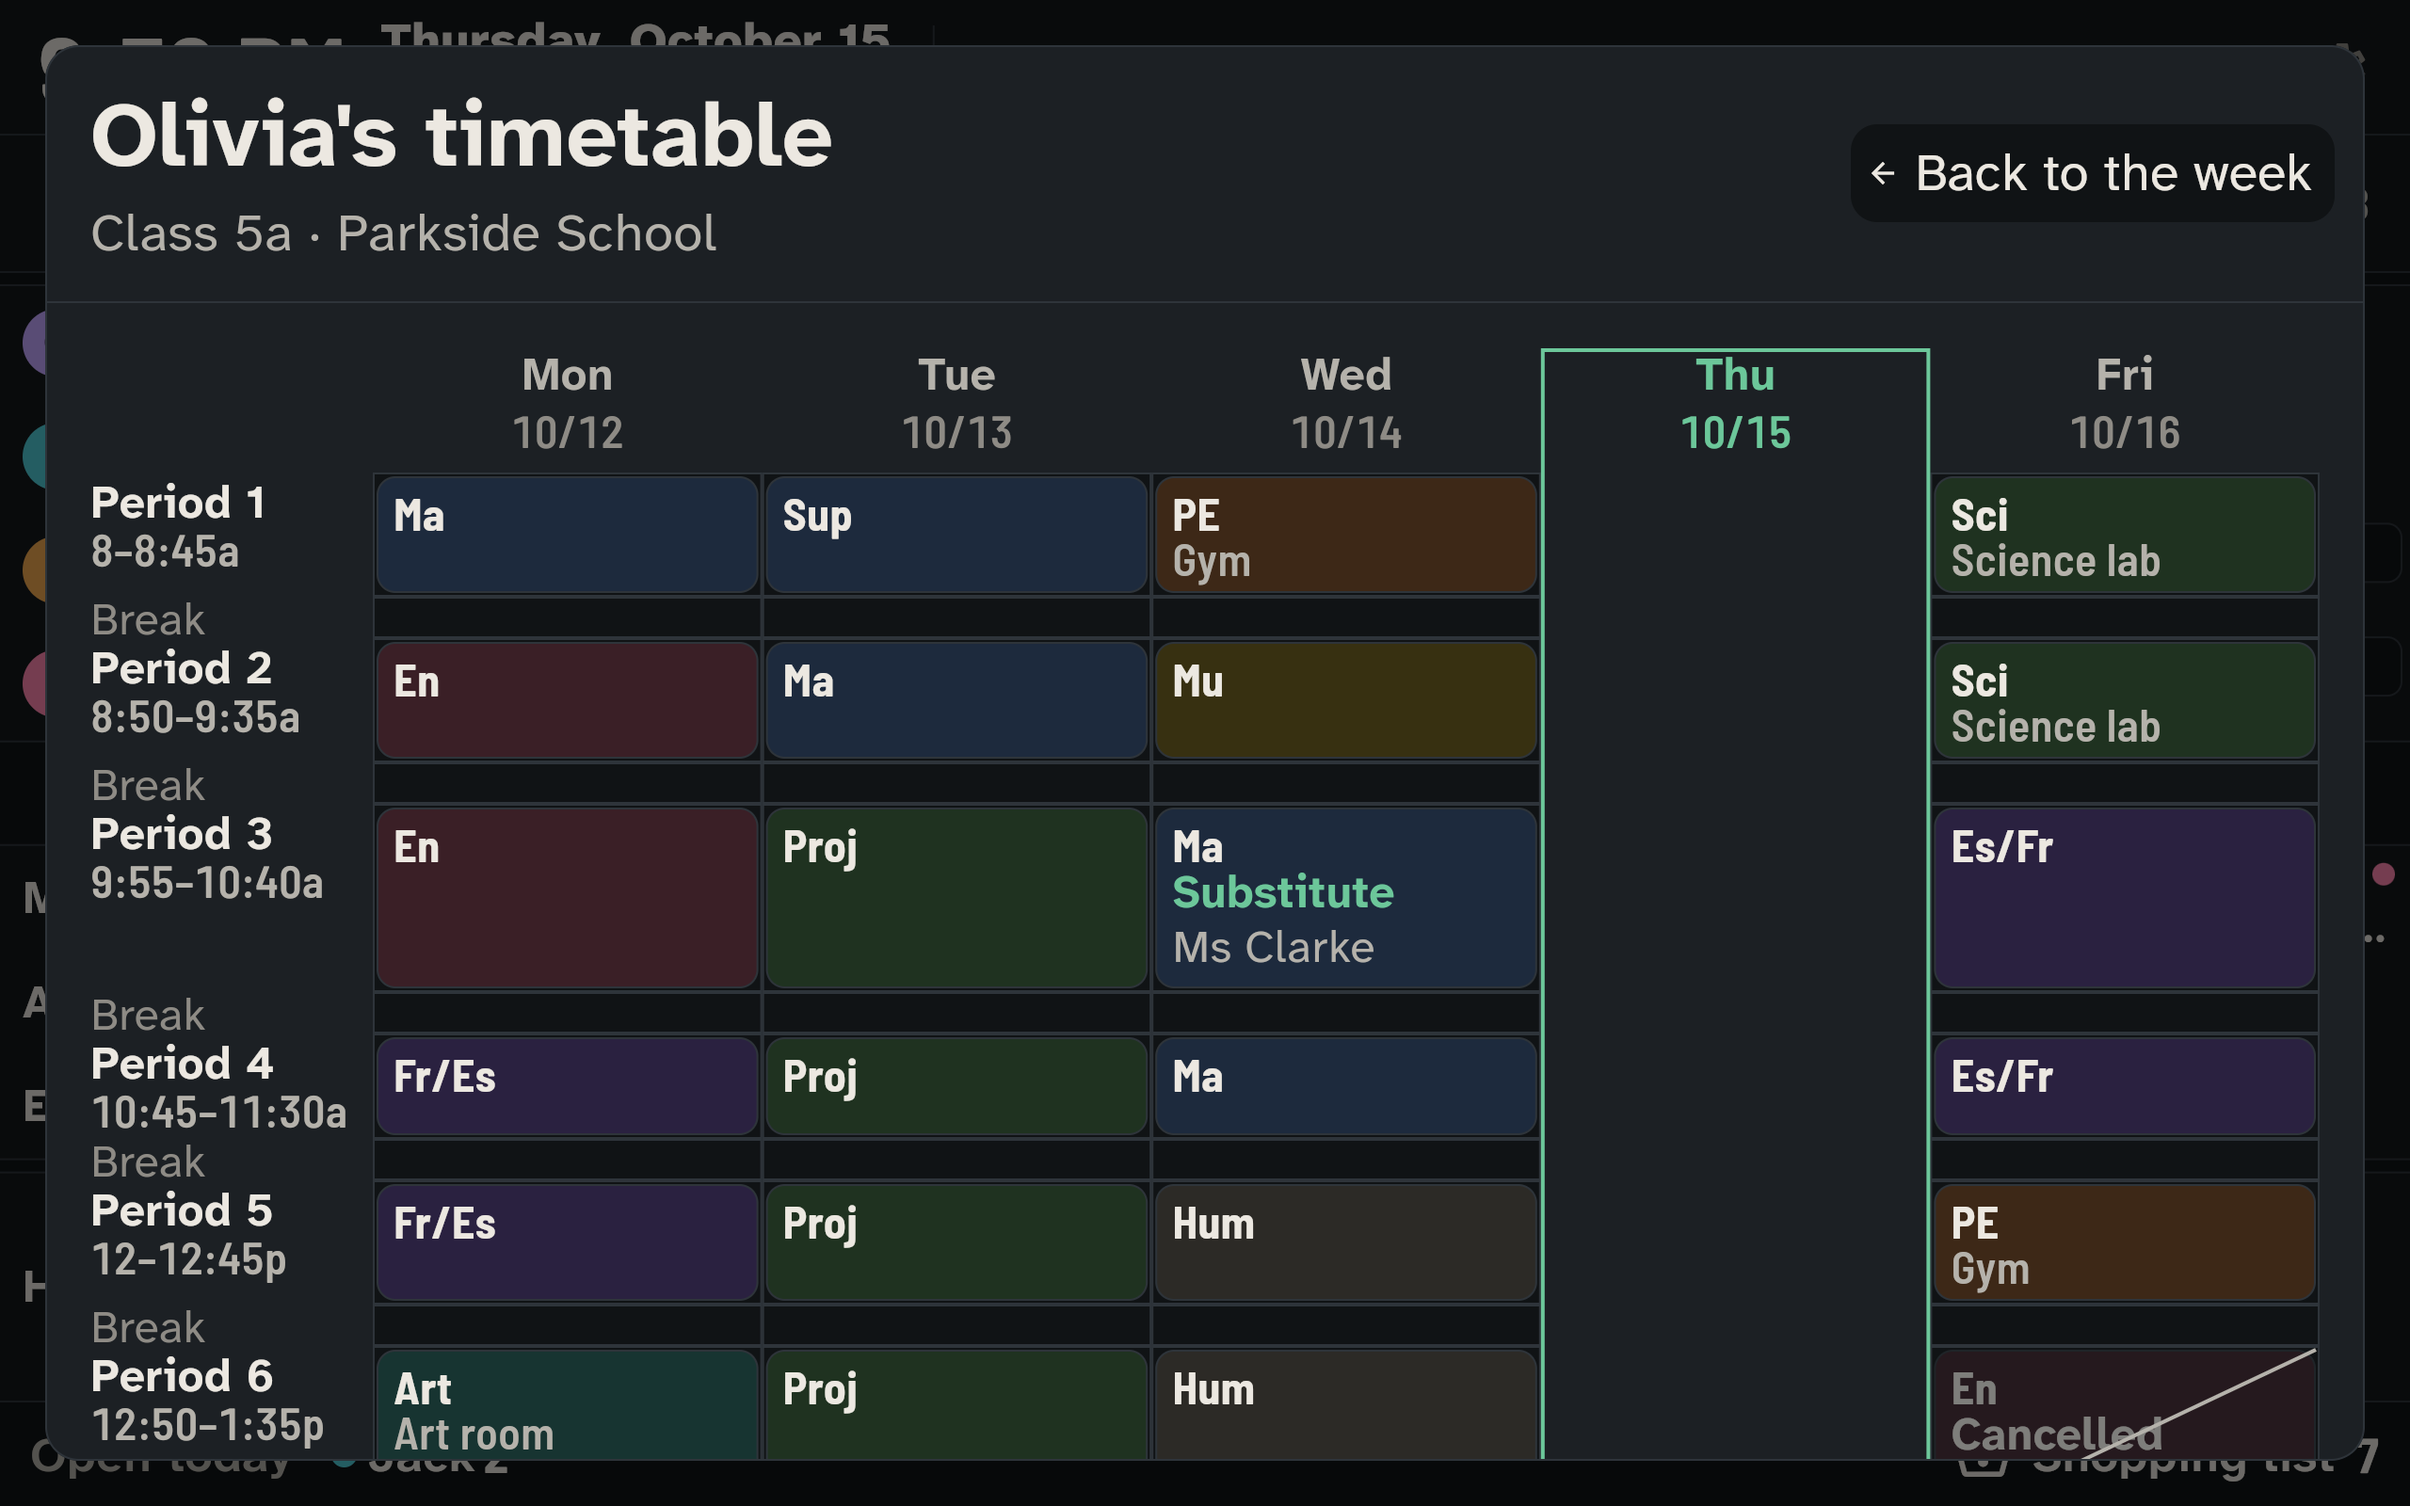
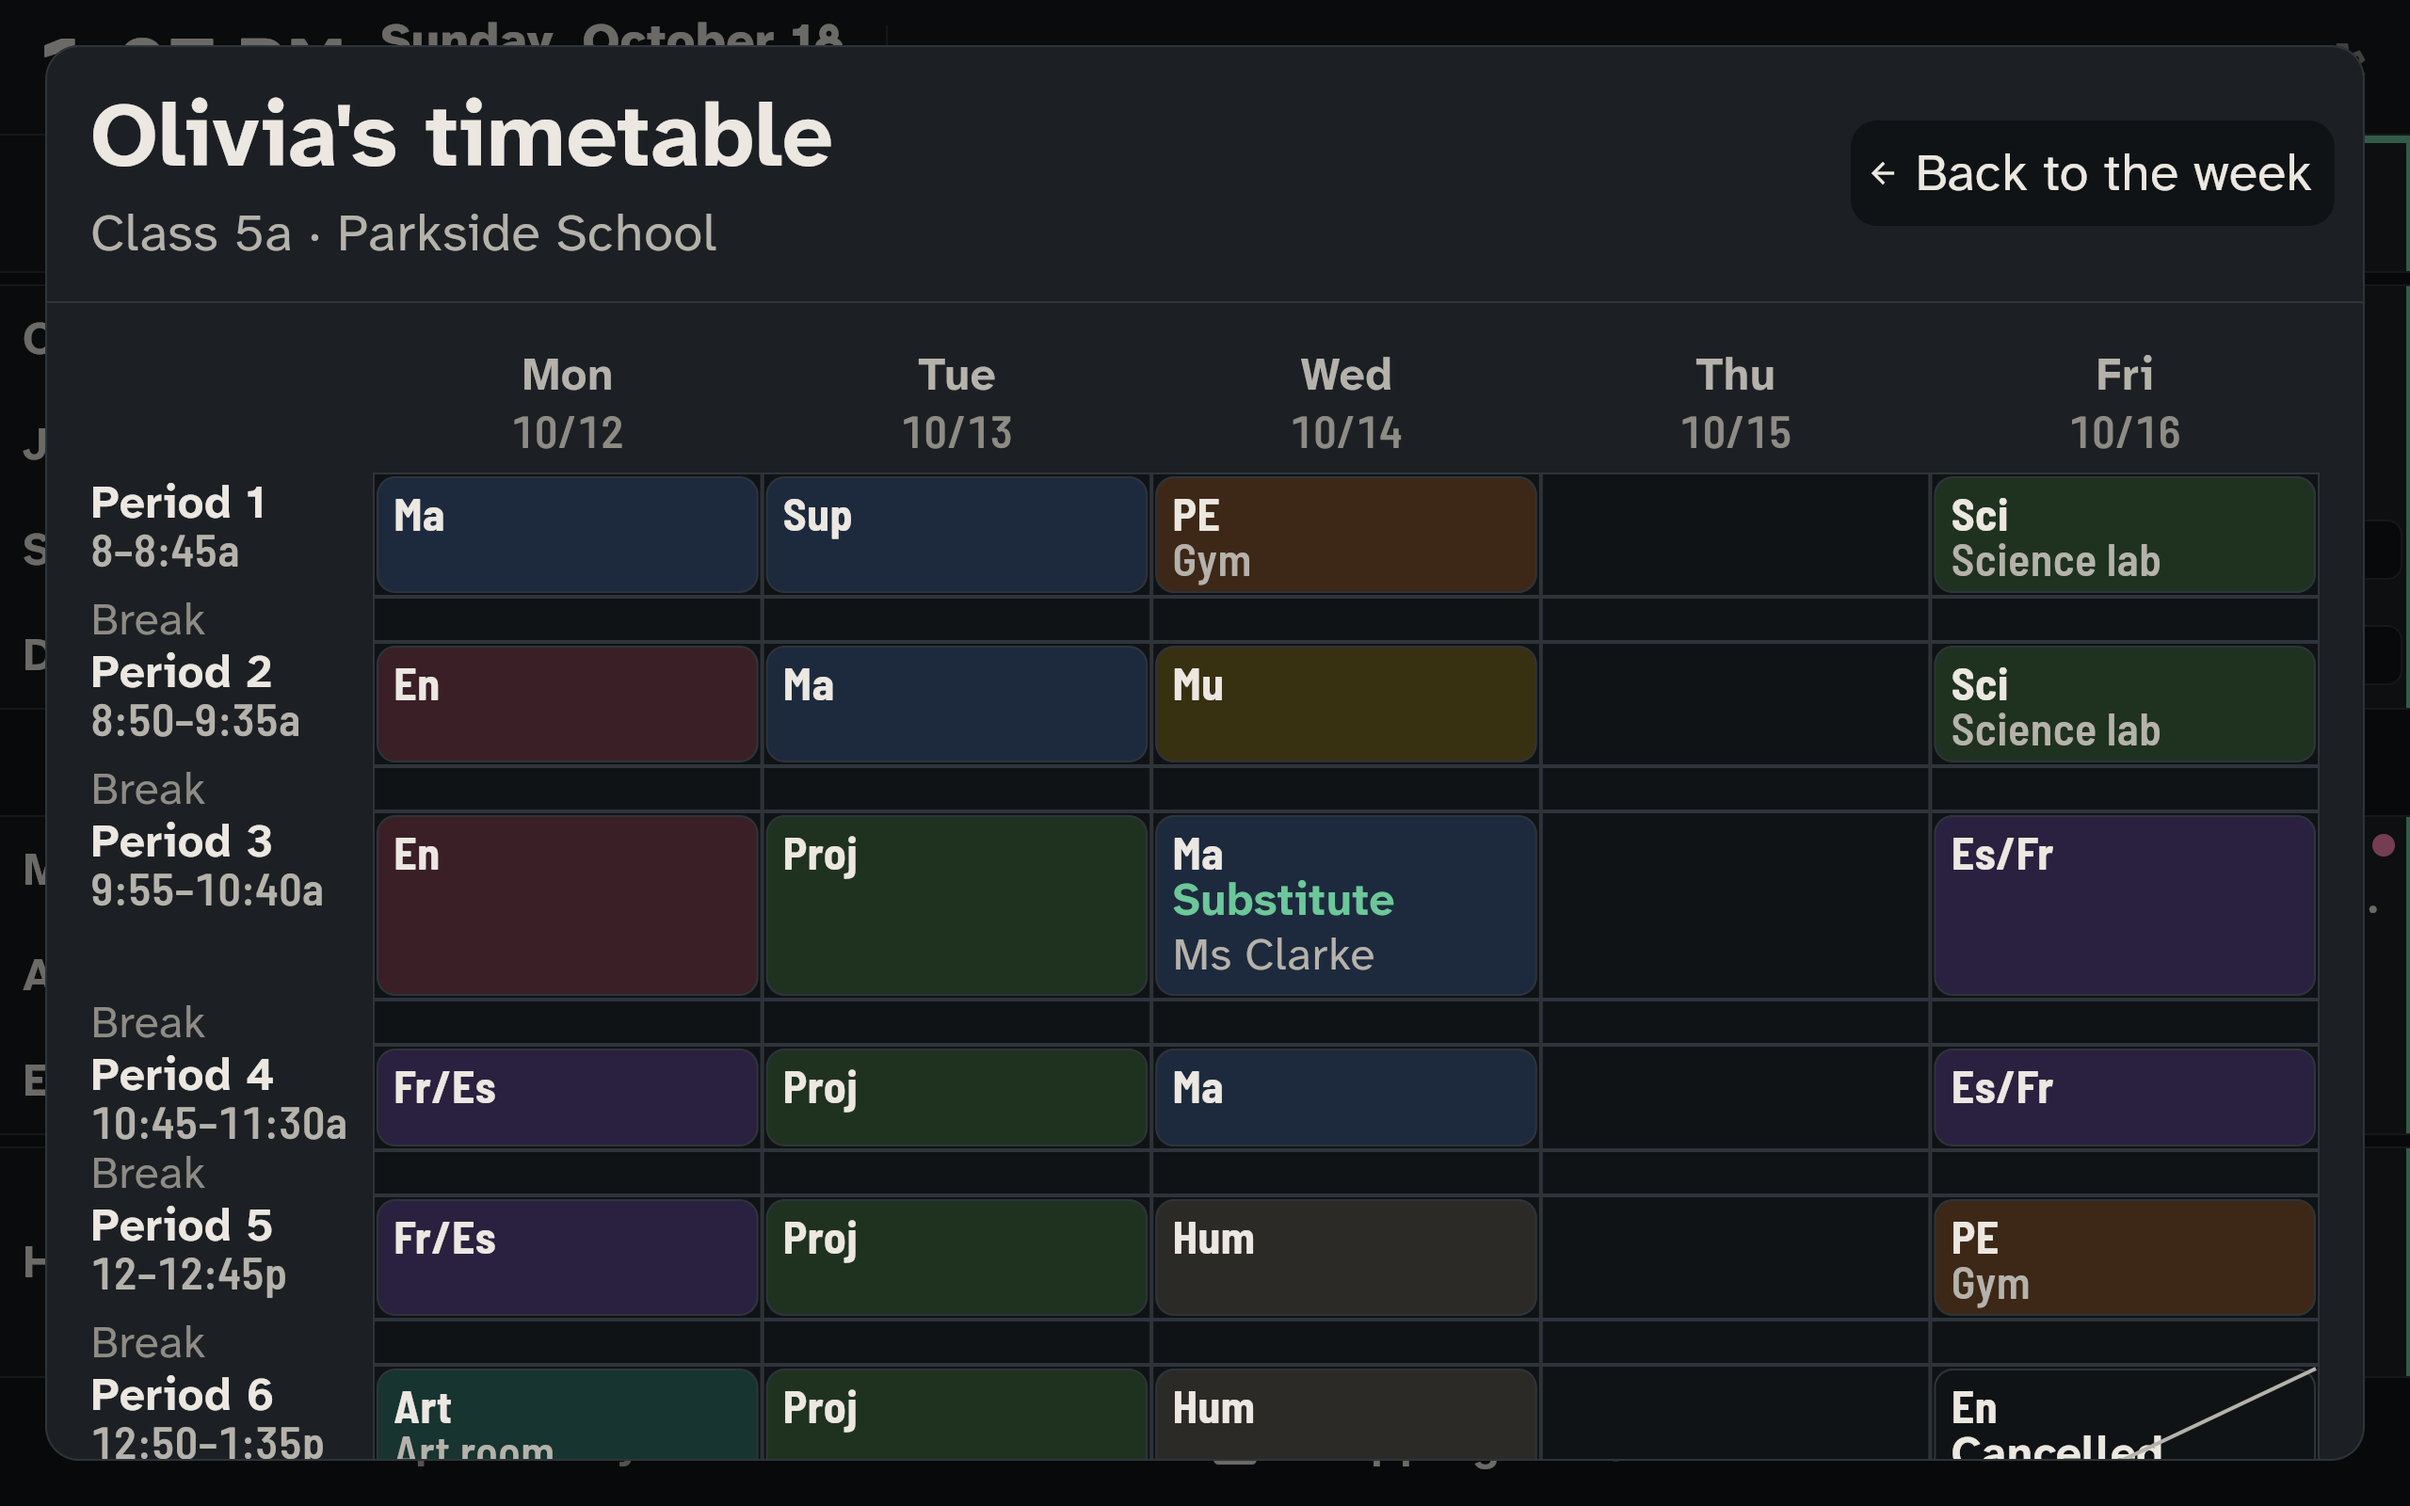
docs: kiosk details show everything, past entries on a muted ground
Both languages of the wall guide say the details wrap long text and that what
is over sits on a muted ground; specs/09 records the rule. Shots of the day
detail, the child's timetable and the school week regenerated.

(cherry picked from commit 576f7316b08c09ec401619177b18c266e9d1ec11)

diff --git a/docs/guide/wall.md b/docs/guide/wall.md
@@ -42,6 +42,8 @@ Ein Tipp zeigt mehr, und nach einer Minute geht die Anzeige von selbst zurück z
 - auf den **Namen eines Erwachsenen**: seine Woche
 - auf den **Essensbereich**: die Mahlzeiten der Woche
 
+In den Details steht alles vollständig, auch bei großer Schrift: lange Namen, Orte und Gerichte laufen in die nächste Zeile weiter. Was schon vorbei ist – vergangene Tage, beendete Termine, ausgefallene Stunden – liegt auf einem gedämpften Grund, bleibt aber so gut lesbar wie der Rest.
+
 <Shot name="wall-day" alt="Wandanzeige: Detailansicht eines Tages" wide />
 
 <Shot name="wall-child-week" alt="Wandanzeige: Stundenplan eines Kindes für die Woche" wide />

diff --git a/specs/09-clients-and-ux.md b/specs/09-clients-and-ux.md
@@ -225,6 +225,11 @@ multi-day bands. This retains specs/17's existing stricter text-token rule rathe
 than relaxing large kiosk text to the WCAG AA 3:1 allowance. Night lowers glare,
 not the acceptance threshold.
 
+The tap-through details are where the full labels live, so they never truncate: at
+every text scale their text wraps, their columns grow with it and nothing ends in an
+ellipsis or a line limit. Past days, finished appointments and cancelled lessons in a
+detail recede through their ground (`sunken`), with the same 4.5:1 rule (`t_10f0b348`).
+
 ### Touch behaviour
 
 Tapping is a shortcut into detail, never into editing — the wall display is the wrong

diff --git a/docs/en/guide/wall.md b/docs/en/guide/wall.md
@@ -42,6 +42,8 @@ A tap shows more, and after a minute the display returns to the week by itself:
 - on an **adult's name**: their week
 - on the **meal area**: the meals of the week
 
+The details show everything in full, also at large text sizes: long names, places and dishes continue on the next line. What is already over — past days, finished appointments, cancelled lessons — sits on a muted background but stays as readable as the rest.
+
 <Shot name="wall-day" alt="Wall display: details of one day" wide />
 
 <Shot name="wall-child-week" alt="Wall display: a child's timetable for the week" wide />
